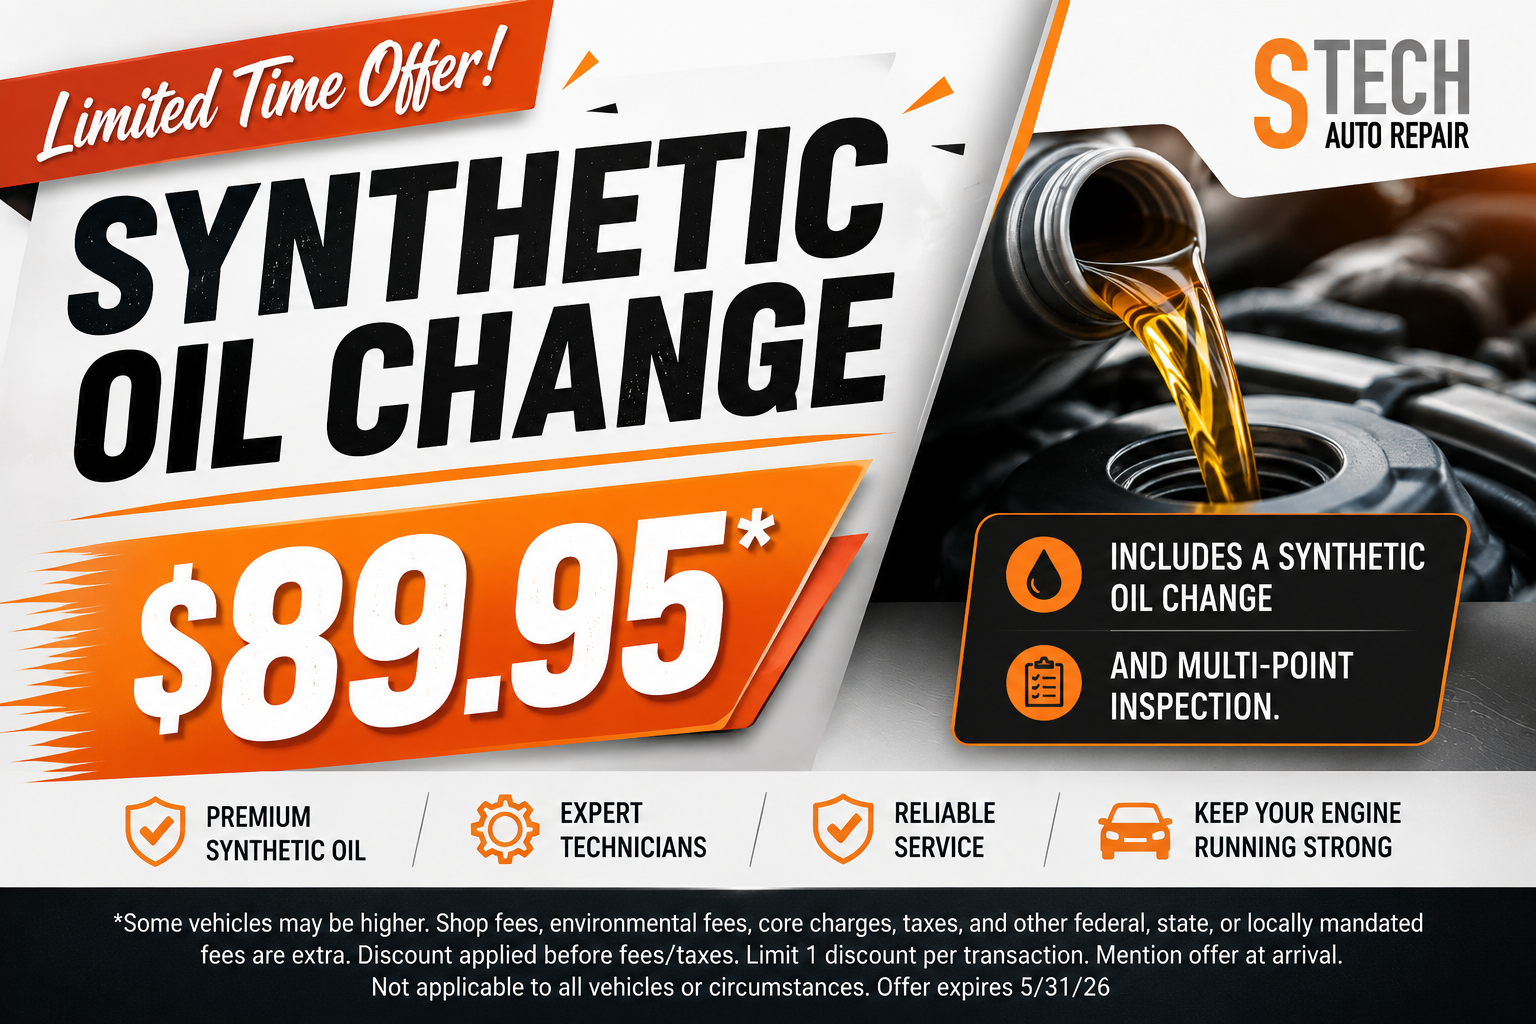
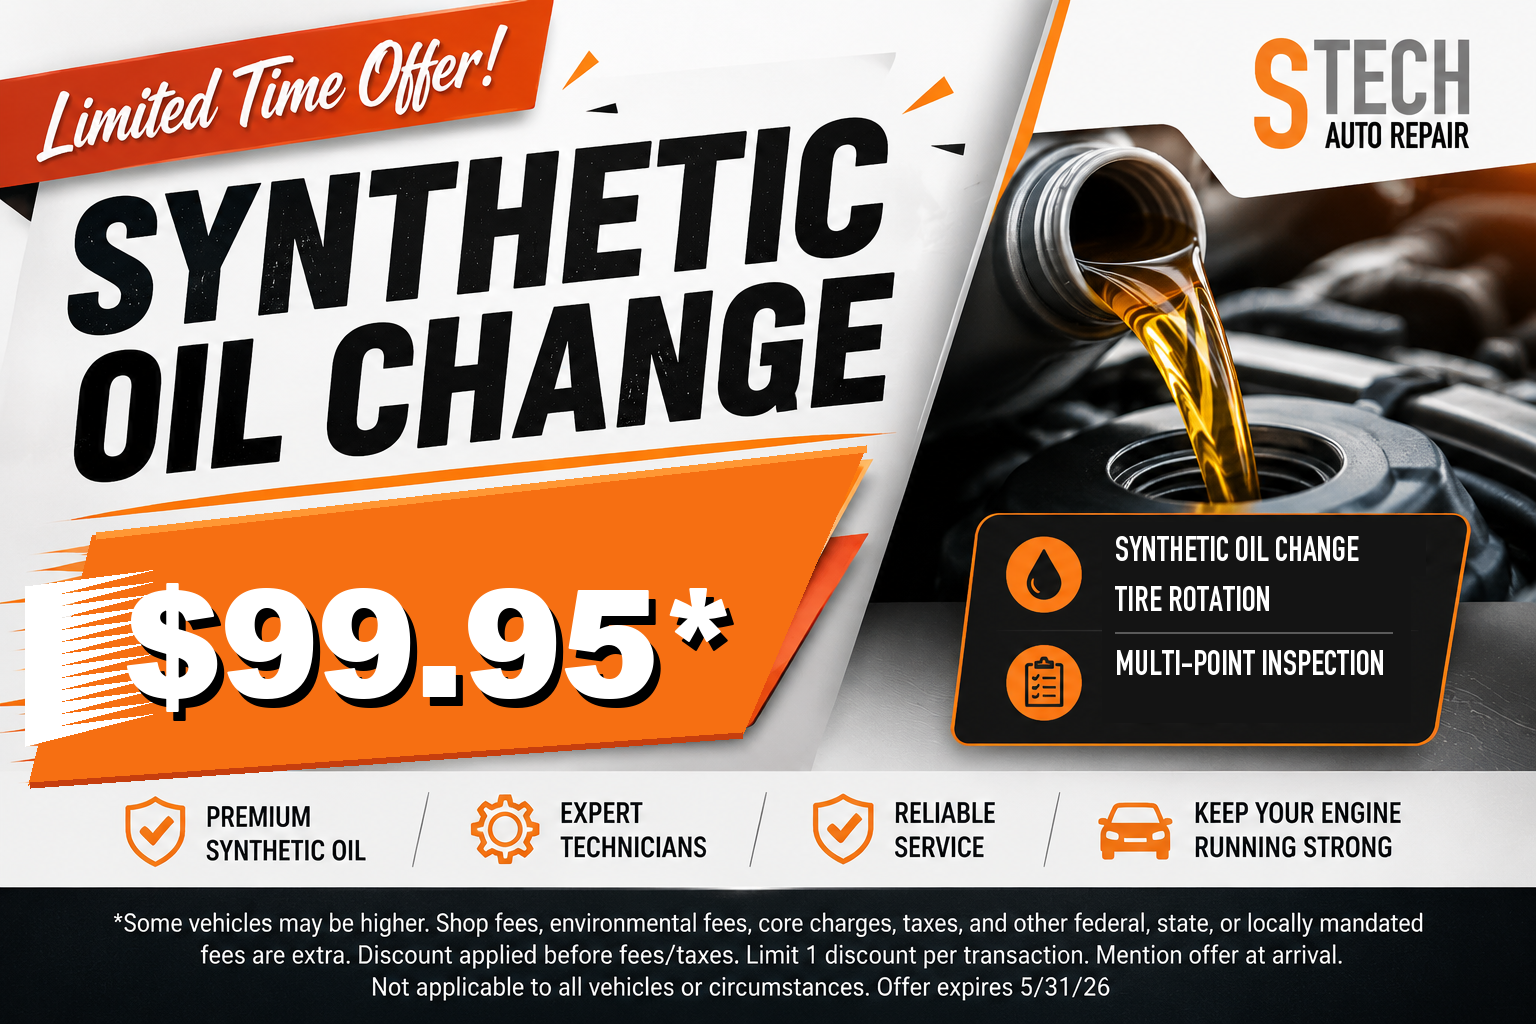
Replace coupon prices in source graphics

Changed region(s): [[0.0, 0.4375, 0.5625, 0.7812], [0.7188, 0.5, 0.9375, 0.7188]]

diff --git a/src/app/globals.css b/src/app/globals.css
@@ -1158,62 +1158,6 @@ span {
   text-align: center;
 }
 
-.coupon-price-overlay,
-.coupon-detail-overlay {
-  position: absolute;
-  z-index: 1;
-  font-family: var(--font-heading), "Helvetica Neue", "Arial Narrow", Arial, sans-serif;
-  line-height: 1;
-  text-transform: uppercase;
-  pointer-events: none;
-}
-
-.coupon-price-overlay {
-  display: flex;
-  align-items: center;
-  justify-content: center;
-  font-size: clamp(3.2rem, 8vw, 6rem);
-  text-shadow: 0 5px 12px rgba(0, 0, 0, 0.32);
-}
-
-.offer-visual-card-synthetic-oil-change .coupon-price-overlay {
-  left: 7%;
-  top: 51%;
-  width: 38%;
-  height: 21%;
-  transform: skew(-8deg);
-  background: linear-gradient(180deg, #ff8b32, #f36f12);
-  color: #ffffff;
-}
-
-.offer-visual-card-smog-certificate .coupon-price-overlay {
-  left: 19%;
-  top: 49%;
-  width: 36%;
-  height: 19%;
-  background: #111111;
-  color: #ffffff;
-  text-shadow:
-    -1px -1px 0 #f36f12,
-    1px -1px 0 #f36f12,
-    -1px 1px 0 #f36f12,
-    1px 1px 0 #f36f12,
-    0 5px 12px rgba(0, 0, 0, 0.35);
-}
-
-.offer-visual-card-synthetic-oil-change .coupon-detail-overlay {
-  right: 7%;
-  top: 58%;
-  max-width: 28%;
-  padding: 0.55rem 0.7rem;
-  border: 1px solid rgba(246, 141, 63, 0.8);
-  border-radius: var(--radius-sm);
-  background: rgba(8, 8, 8, 0.84);
-  color: #ffffff;
-  font-size: clamp(0.9rem, 1.35vw, 1.2rem);
-  text-align: left;
-}
-
 .top-offer-rotator-image {
   object-fit: contain;
 }
@@ -1222,18 +1166,6 @@ span {
   min-height: 15%;
   padding: 0.28rem 0.55rem;
   font-size: clamp(0.45rem, 0.65vw, 0.58rem);
-}
-
-.top-offer-rotator .coupon-price-overlay {
-  font-size: clamp(1.9rem, 5.2vw, 4rem);
-}
-
-.top-offer-rotator.offer-visual-card-synthetic-oil-change .coupon-detail-overlay {
-  right: 6%;
-  top: 58%;
-  max-width: 31%;
-  padding: 0.35rem 0.45rem;
-  font-size: clamp(0.52rem, 0.9vw, 0.78rem);
 }
 
 .offer-logo {
@@ -1977,32 +1909,10 @@ span {
     font-size: 0.54rem;
   }
 
-  .coupon-price-overlay {
-    font-size: clamp(2.4rem, 15vw, 4rem);
-  }
-
-  .offer-visual-card-synthetic-oil-change .coupon-detail-overlay {
-    right: 5%;
-    top: 57%;
-    max-width: 34%;
-    padding: 0.35rem 0.42rem;
-    font-size: 0.62rem;
-  }
-
   .top-offer-rotator .coupon-disclosure-overlay {
     min-height: 18%;
     padding: 0.22rem 0.35rem;
     font-size: 0.34rem;
-  }
-
-  .top-offer-rotator .coupon-price-overlay {
-    font-size: clamp(1.6rem, 10vw, 2.5rem);
-  }
-
-  .top-offer-rotator.offer-visual-card-synthetic-oil-change .coupon-detail-overlay {
-    top: 55%;
-    max-width: 36%;
-    font-size: 0.42rem;
   }
 
   .offer-fallback-card {

diff --git a/src/app/page.tsx b/src/app/page.tsx
@@ -33,10 +33,6 @@ const proofPoints = [
 
 const offerDisplayOrder = ["Synthetic Oil Change", "Repair Savings", "Smog Certificate"];
 
-function getOfferVisualClass(title: string) {
-  return title.toLowerCase().replace(/[^a-z0-9]+/g, "-").replace(/^-|-$/g, "");
-}
-
 export default function HomePage() {
   const businessSchema = getBusinessSchema();
   const faqSchema = getFaqSchema();
@@ -156,7 +152,7 @@ export default function HomePage() {
             {displayOffers.map((offer) => (
               <Link
                 key={offer.title}
-                className={`offer-visual-card offer-visual-card-${getOfferVisualClass(offer.title)}`}
+                className="offer-visual-card"
                 href="/schedule"
                 aria-label={`Request an appointment for ${offer.title}: ${offer.price}. ${offer.description}`}
               >
@@ -168,12 +164,6 @@ export default function HomePage() {
                   className="offer-visual-image"
                   sizes="(max-width: 640px) 100vw, 50vw"
                 />
-                {offer.title !== "Repair Savings" ? (
-                  <span className="coupon-price-overlay">{offer.price}</span>
-                ) : null}
-                {offer.title === "Synthetic Oil Change" ? (
-                  <span className="coupon-detail-overlay">Includes tire rotation</span>
-                ) : null}
                 <span className="coupon-disclosure-overlay">{offer.disclosure}</span>
               </Link>
             ))}

diff --git a/src/components/specials-rotator.tsx b/src/components/specials-rotator.tsx
@@ -8,10 +8,6 @@ type SpecialsRotatorProps = {
   offers: Offer[];
 };
 
-function getOfferVisualClass(title: string) {
-  return title.toLowerCase().replace(/[^a-z0-9]+/g, "-").replace(/^-|-$/g, "");
-}
-
 export function SpecialsRotator({ offers }: SpecialsRotatorProps) {
   const [activeIndex, setActiveIndex] = useState(0);
 
@@ -52,7 +48,7 @@ export function SpecialsRotator({ offers }: SpecialsRotatorProps) {
   return (
     <button
       type="button"
-      className={`top-offer-rotator offer-visual-card-${getOfferVisualClass(activeOffer.title)}`}
+      className="top-offer-rotator"
       onClick={scrollToSpecials}
       aria-label={`View all current specials, including ${activeOffer.title}: ${activeOffer.price}.`}
     >
@@ -65,12 +61,6 @@ export function SpecialsRotator({ offers }: SpecialsRotatorProps) {
         className="top-offer-rotator-image"
         sizes="(max-width: 960px) 100vw, 33vw"
       />
-      {activeOffer.title !== "Repair Savings" ? (
-        <span className="coupon-price-overlay">{activeOffer.price}</span>
-      ) : null}
-      {activeOffer.title === "Synthetic Oil Change" ? (
-        <span className="coupon-detail-overlay">Includes tire rotation</span>
-      ) : null}
       <span className="coupon-disclosure-overlay">{activeOffer.disclosure}</span>
       <span className="top-offer-rotator-cta">View all specials</span>
       {offers.length > 1 ? (